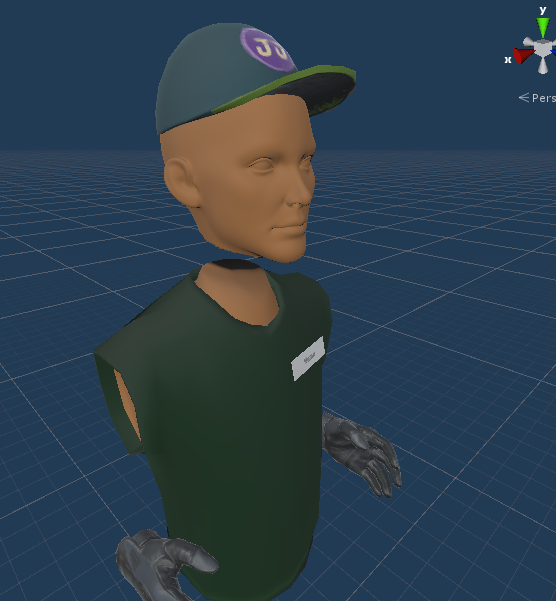
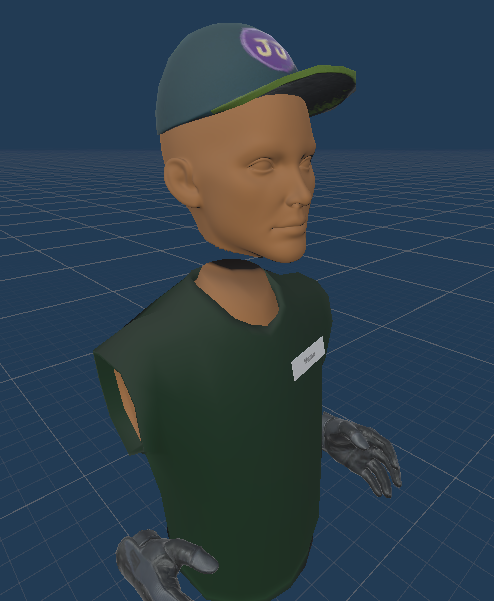
Updates from Overleaf

diff --git a/chapter6.tex b/chapter6.tex
@@ -69,13 +69,32 @@ Considering these criteria, the newly developed car mechanic workplace was chose
 
 
 \subsubsection{Virtual Reality}
-In response to feedback, several decisions were made in this phase to enhance the experience of the individual users, and how they could interact in VR. This included altering the avatars to be less grey and dull, so that they would not blend into the environment as much. They were also given a hat so that their silhouette would be more distinct.
+In response to feedback, several decisions were made in this phase to enhance the experience of the individual users, and how they could interact in VR. This included altering the avatars to be less grey and dull, so that they would not blend into the environment as much. They were also given a hat so that their silhouette would be more distinct.  See figure \ref{fig:phase2Avatars}.
 According  to  Wallach  et  al. it is possible that users of a VR application often focus on discordant elements in the VR environment rather than accurate element which might indicate that the feeling of presence is influenced by the existence of such discordant elements \cite{presenceInVirtualReality:}. A more realistic visual representation for a human as an avatar can therefore, as outlined in section \ref{section:socialPrecence}, contribute to an increased feeling of social presence. 
 
 Finding a way to let players highlight either their own location or the location of a specific object was also taken into consideration. After some discussion, the decision was made to implement a form of laser pointer that can be activated for each player. The laser has significantly more accuracy than the standard hand, and can be used to pinpoint rather small objects. 
 
 Perhaps most important was the possibility of direct communication. To begin with, direct voice chat has been implemented in the application. A important consideration was the that audio quality had to be good with little to none background noise and echo as it can impact both the usability and the feeling of social presence (see section \ref{section:socialPrecence}) for the users. 
 The effect on collaboration with voice chat would have to be investigated before adding more features to it, so certain Quality of Life features such as speech indicators or low fidelity animations to indicate speech could be implemented later based on time and further feedback. If users feel that it is hard to figure out who is talking, or where the other users are, the importance of these features can be adjusted to more accurately reflect their perceived value to the overall application.
+
+
+\begin{figure}[]
+  \centering
+  \begin{subfigure}[b]{0.4\textwidth}
+    \includegraphics[width=1\textwidth]{fig/phase_2/implementation/oldAvatar1.png}
+    \caption{The old avatar model from phase 1 with a grey colour schema.}
+    \label{fig:oldAvatar}
+  \end{subfigure}
+    \hfill%
+  \begin{subfigure}[b]{0.4\textwidth}
+    \includegraphics[width=1\textwidth]{fig/phase_2/implementation/avatarModel.PNG}
+    \caption{The enhanced avatar model with more realistic colours, hat, gloves and name tag.}
+    \label{fig:newAvatar}
+  \end{subfigure}
+  \hfill%
+  \caption{Iterations of the avatar model.}
+  \label{fig:phase2Avatars}
+\end{figure}
 
 
 \section{Implementation}
